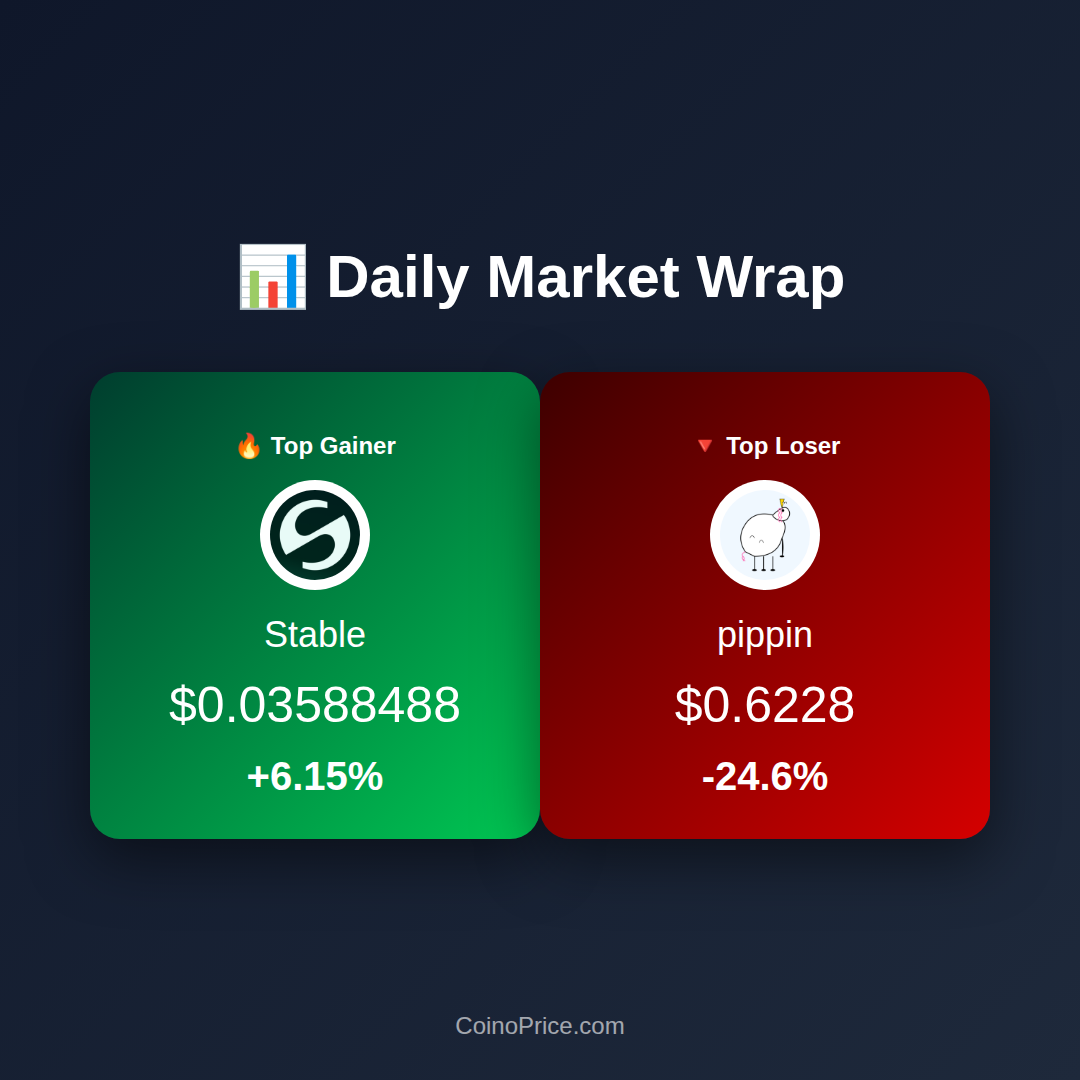
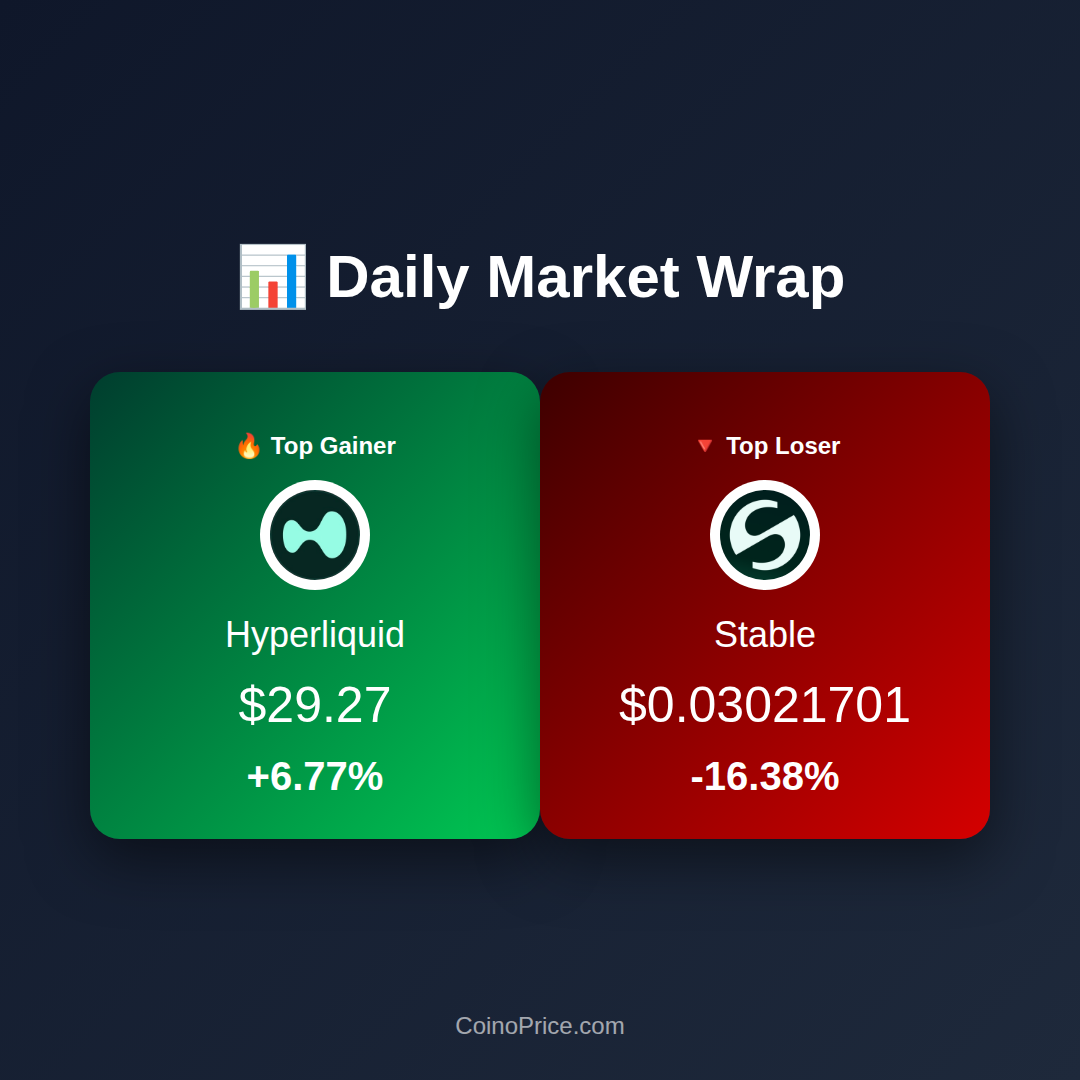
Auto crypto post update

diff --git a/temp.html b/temp.html
@@ -1,109 +1,107 @@
 <!DOCTYPE html>
 <html>
 <head>
+<meta charset="UTF-8">
 <style>
 body {
   margin: 0;
   width: 1080px;
   height: 1080px;
-  font-family: 'Segoe UI', sans-serif;
   background: linear-gradient(135deg, #0f172a, #1e293b);
-  display: flex;
-  align-items: center;
-  justify-content: center;
+  font-family: 'Segoe UI', sans-serif;
   color: white;
+  display: flex;
+  flex-direction: column;
+  justify-content: center;
+  align-items: center;
+}
+
+.title {
+  font-size: 60px;
+  font-weight: bold;
+  margin-bottom: 60px;
+}
+
+.container {
+  width: 900px;
+  display: flex;
+  justify-content: space-between;
 }
 
 .card {
-  width: 900px;
-  padding: 60px;
-  border-radius: 40px;
-  background: rgba(255,255,255,0.05);
-  backdrop-filter: blur(15px);
-  box-shadow: 0 40px 80px rgba(0,0,0,0.5);
+  width: 420px;
+  padding: 40px;
+  border-radius: 30px;
+  text-align: center;
+  box-shadow: 0 20px 60px rgba(0,0,0,0.5);
 }
 
-.header {
-  display: flex;
-  justify-content: space-between;
-  align-items: center;
+.gainer {
+  background: linear-gradient(135deg, #003d2e, #00c853);
+}
+
+.loser {
+  background: linear-gradient(135deg, #3d0000, #d50000);
+}
+
+.card img {
+  width: 90px;
+  height: 90px;
+  background: white;
+  border-radius: 50%;
+  padding: 10px;
+  margin-bottom: 20px;
 }
 
 .coin-name {
-  font-size: 70px;
-  font-weight: 700;
-}
-
-.rank {
-  background: #111827;
-  padding: 12px 30px;
-  border-radius: 50px;
-  font-size: 32px;
+  font-size: 36px;
+  margin-bottom: 10px;
 }
 
 .price {
-  font-size: 120px;
-  margin: 40px 0;
-  font-weight: 700;
-}
-
-.inr {
-  font-size: 40px;
-  opacity: 0.7;
+  font-size: 50px;
+  margin: 20px 0;
 }
 
 .change {
-  font-size: 60px;
+  font-size: 40px;
   font-weight: bold;
-  margin-top: 20px;
-  color: {{color}};
-}
-
-.stats {
-  margin-top: 60px;
-  display: flex;
-  justify-content: space-between;
-  font-size: 36px;
 }
 
 .footer {
-  margin-top: 80px;
-  font-size: 28px;
+  position: absolute;
+  bottom: 40px;
+  font-size: 24px;
   opacity: 0.6;
-  text-align: center;
 }
 </style>
 </head>
 
 <body>
-<div class="card">
 
-  <div class="header">
-    <div class="coin-name">Tether</div>
-    <div class="rank">#3</div>
+<div class="title">📊 Daily Market Wrap</div>
+
+<div class="container">
+
+  <div class="card gainer">
+    <h2>🔥 Top Gainer</h2>
+    <img src="https://coin-images.coingecko.com/coins/images/50882/large/hyperliquid.jpg?1729431300">
+    <div class="coin-name">Hyperliquid</div>
+    <div class="price">$29.27</div>
+    <div class="change">+6.77%</div>
   </div>
 
-  <div class="price">$1.0</div>
-  <div class="inr">₹{{price_inr}}</div>
-
-  <div class="change">0.01% (24H)</div>
-
-  <div class="stats">
-    <div>
-      <div>Market Cap</div>
-      <div>${{market_cap}}</div>
-    </div>
-    <div>
-      <div>Volume</div>
-      <div>${{volume}}</div>
-    </div>
-  </div>
-
-  <div class="footer">
-    Updated: {{updated_time}}  
-    | CoinoPrice.com
+  <div class="card loser">
+    <h2>🔻 Top Loser</h2>
+    <img src="https://coin-images.coingecko.com/coins/images/69242/large/stable-logotype-framed-square-light.png?1762753913">
+    <div class="coin-name">Stable</div>
+    <div class="price">$0.03021701</div>
+    <div class="change">-16.38%</div>
   </div>
 
 </div>
+
+<div class="footer">CoinoPrice.com</div>
+
 </body>
 </html>
